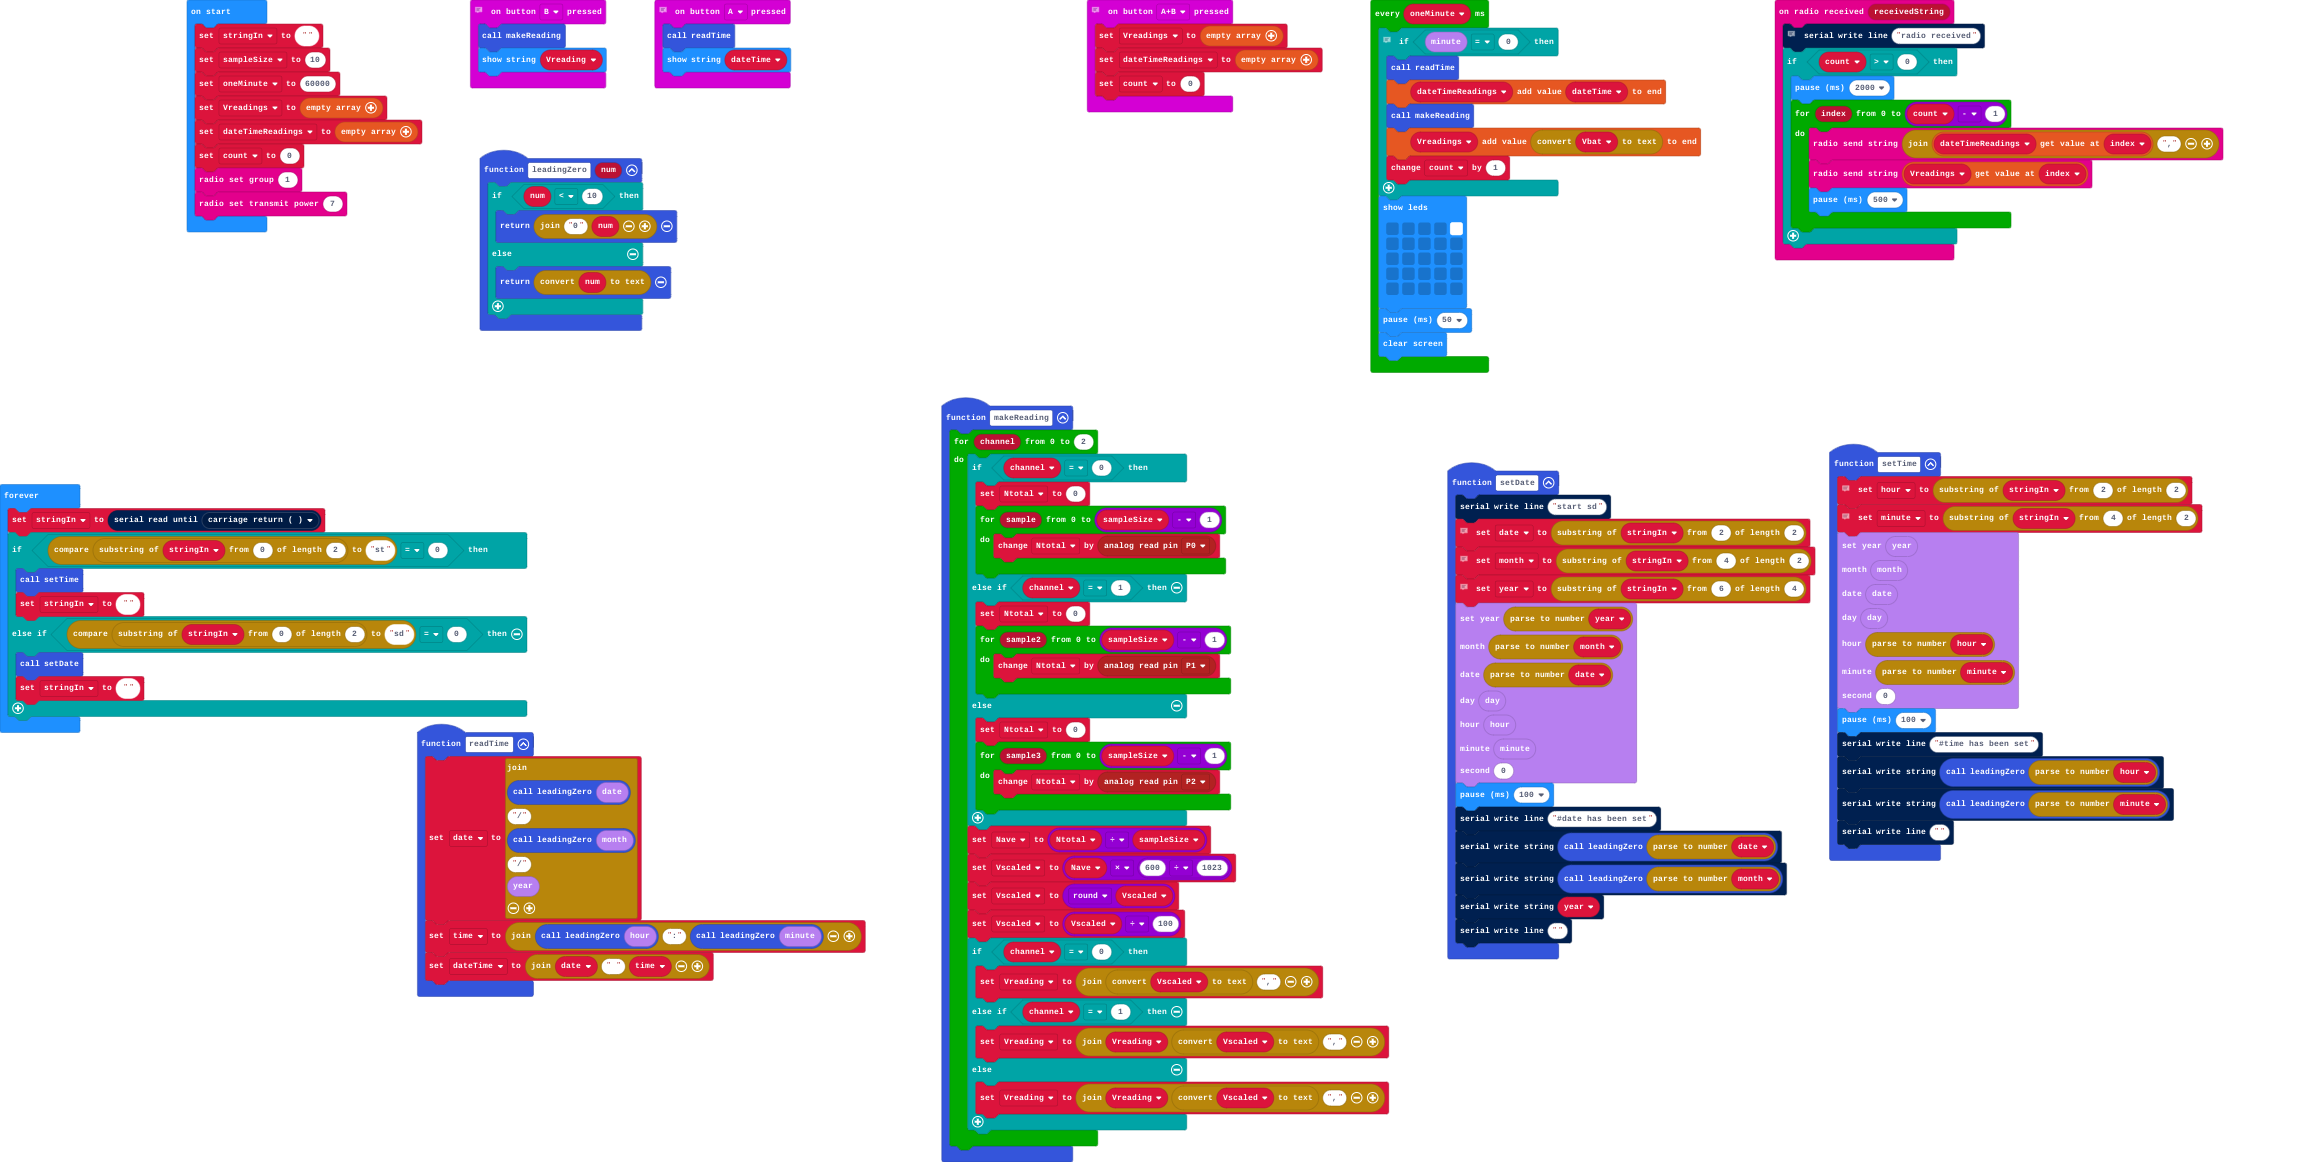
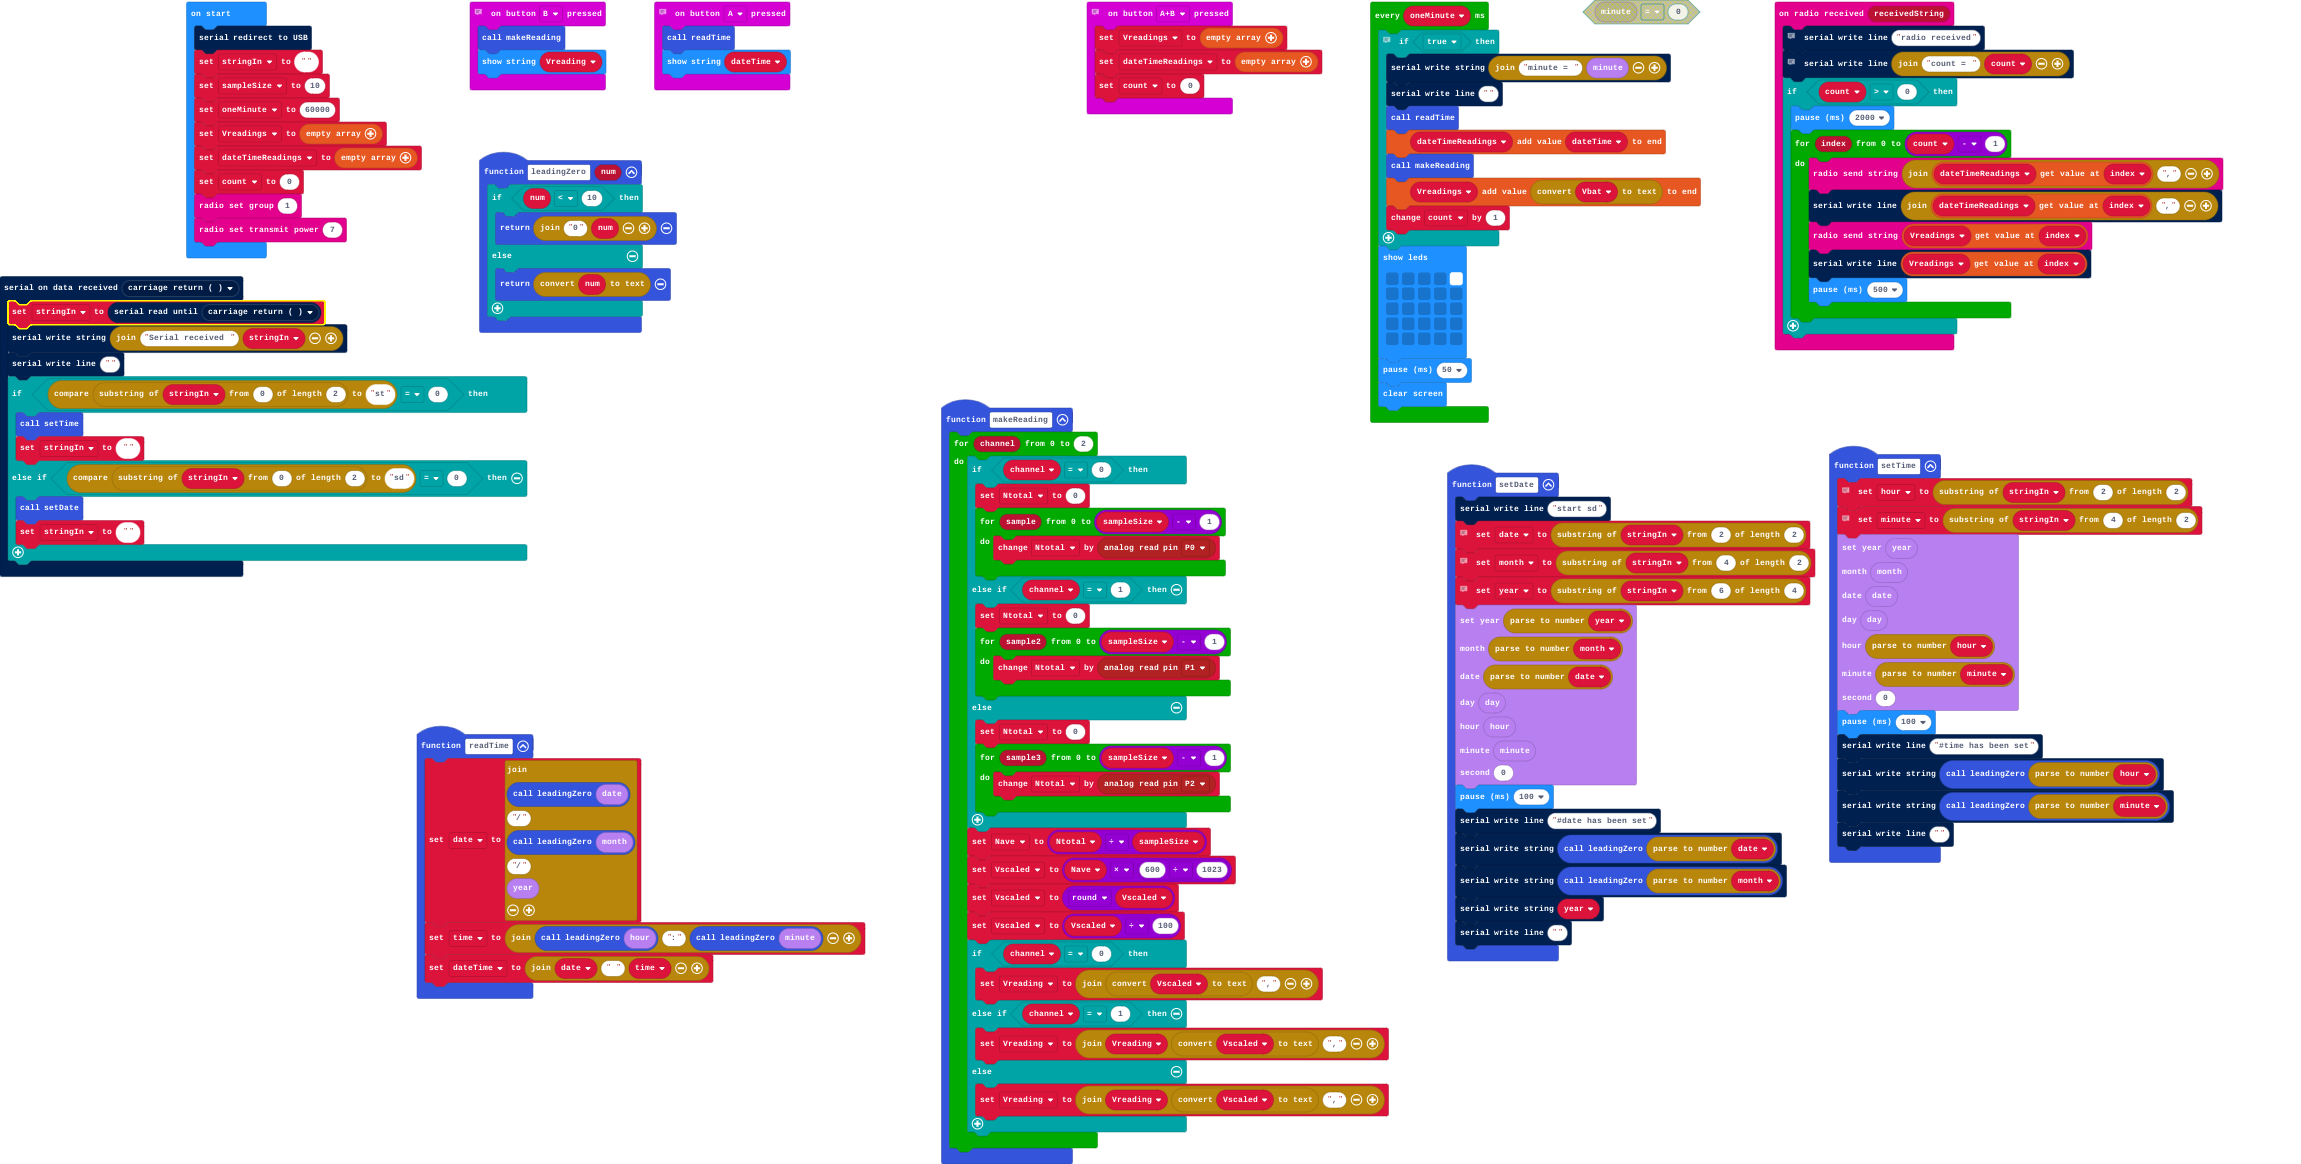
tidy up

diff --git a/main.ts b/main.ts
@@ -99,11 +99,15 @@ function setTime () {
 radio.onReceivedString(function (receivedString) {
     // Debug - radio received
     serial.writeLine("radio received")
+    // Debug - radio received
+    serial.writeLine("count = " + count)
     if (count > 0) {
         basic.pause(2000)
         for (let index = 0; index <= count - 1; index++) {
             radio.sendString("" + dateTimeReadings[index] + ",")
+            serial.writeLine("" + dateTimeReadings[index] + ",")
             radio.sendString("" + (Vreadings[index]))
+            serial.writeLine("" + (Vreadings[index]))
             basic.pause(500)
         }
     }
@@ -112,6 +116,18 @@ radio.onReceivedString(function (receivedString) {
 input.onButtonPressed(Button.B, function () {
     makeReading()
     basic.showString(Vreading)
+})
+serial.onDataReceived(serial.delimiters(Delimiters.CarriageReturn), function () {
+    stringIn = serial.readUntil(serial.delimiters(Delimiters.CarriageReturn))
+    serial.writeString("Serial received " + stringIn)
+    serial.writeLine("")
+    if (stringIn.substr(0, 2).compare("st") == 0) {
+        setTime()
+        stringIn = ""
+    } else if (stringIn.substr(0, 2).compare("sd") == 0) {
+        setDate()
+        stringIn = ""
+    }
 })
 let minute = ""
 let hour = ""
@@ -129,6 +145,7 @@ let dateTimeReadings: string[] = []
 let Vreadings: string[] = []
 let sampleSize = 0
 let stringIn = ""
+serial.redirectToUSB()
 stringIn = ""
 sampleSize = 10
 let oneMinute = 60000
@@ -139,8 +156,10 @@ radio.setGroup(1)
 radio.setTransmitPower(7)
 loops.everyInterval(oneMinute, function () {
     // Take readings once per hour
-    if (DS3231.minute() == 0) {
+    if (true) {
         let Vbat = 0
+        serial.writeString("minute = " + DS3231.minute())
+        serial.writeLine("")
         readTime()
         dateTimeReadings.push(dateTime)
         makeReading()
@@ -156,14 +175,4 @@ loops.everyInterval(oneMinute, function () {
         `)
     basic.pause(50)
     basic.clearScreen()
-})
-basic.forever(function () {
-    stringIn = serial.readUntil(serial.delimiters(Delimiters.CarriageReturn))
-    if (stringIn.substr(0, 2).compare("st") == 0) {
-        setTime()
-        stringIn = ""
-    } else if (stringIn.substr(0, 2).compare("sd") == 0) {
-        setDate()
-        stringIn = ""
-    }
 })
